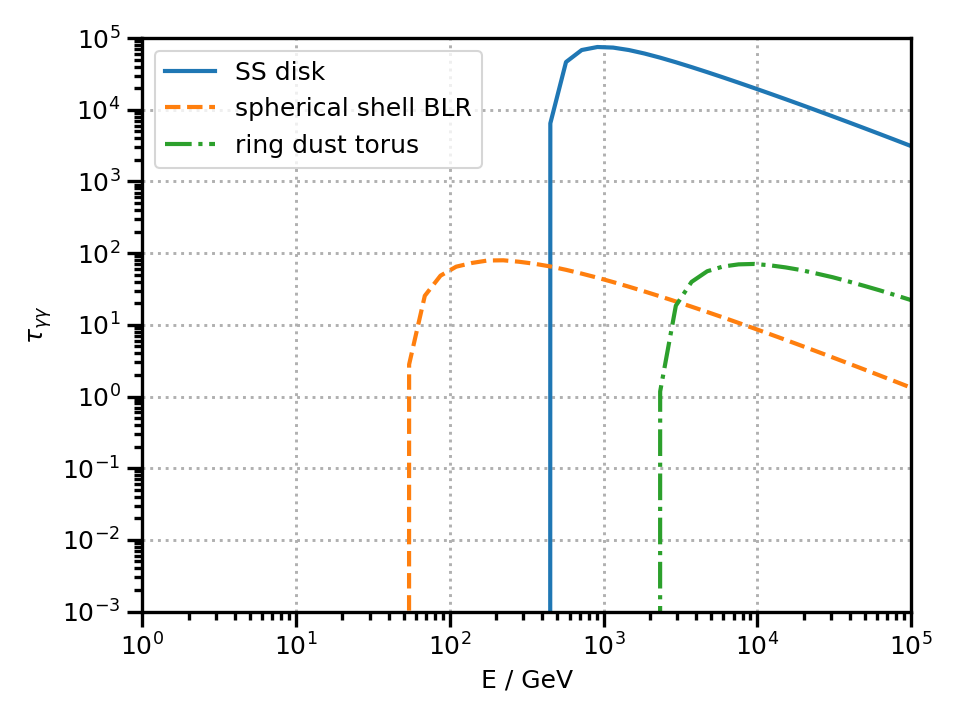
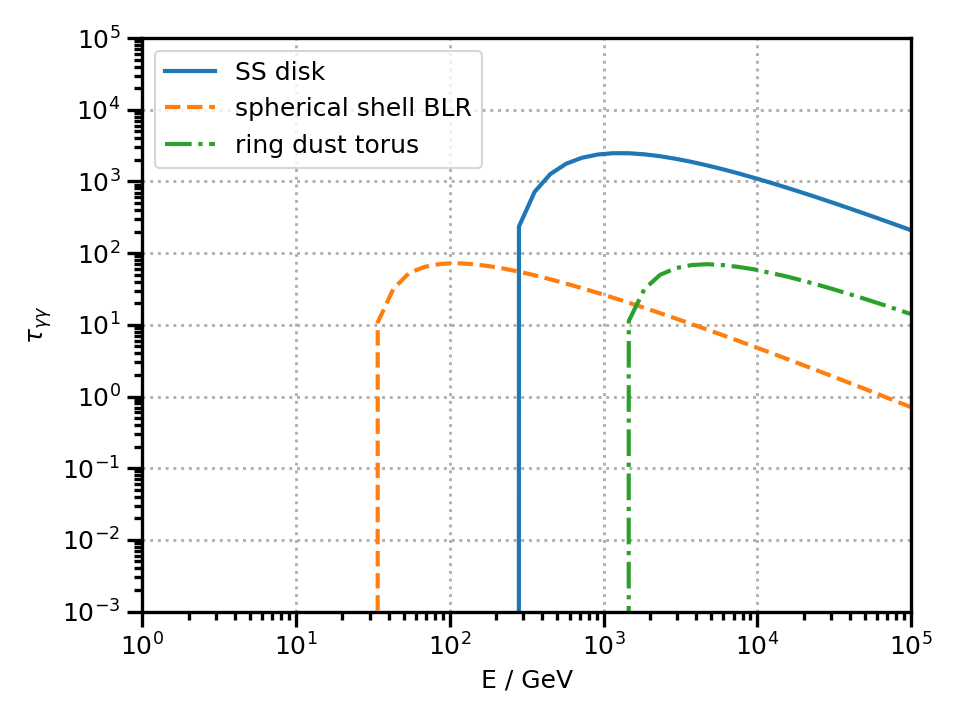
rewritten docs

diff --git a/agnpy/tests/test_compton.py b/agnpy/tests/test_compton.py
@@ -18,7 +18,9 @@ agnpy_dir = Path(__file__).parent.parent
 data_dir = agnpy_dir / "data"
 # where to save figures
 figures_dir = agnpy_dir.parent / "crosschecks/figures/compton"
-figures_dir.mkdir(parents=True, exist_ok=True)
+Path(figures_dir / "ssc").mkdir(parents=True, exist_ok=True)
+for subdir in ["disk", "blr", "dt"]:
+    Path(figures_dir / "ec" / subdir).mkdir(parents=True, exist_ok=True)
 
 # variables with _test are global and meant to be used in all tests
 pwl_spectrum_norm_test = 1e48 * u.Unit("erg")
@@ -97,7 +99,7 @@ class TestSynchrotronSelfCompton:
             "agnpy",
             "Figure 7.4, Dermer and Menon (2009)",
             "Synchrotron Self Compton, " + r"$\gamma_{max} = $" + gamma_max,
-            f"{figures_dir}/ssc_comparison_gamma_max_{gamma_max}_figure_7_4_dermer_menon_2009.png",
+            f"{figures_dir}/ssc/comparison_gamma_max_{gamma_max}_figure_7_4_dermer_menon_2009.png",
             "sed",
             y_range=[1e-13, 1e-9],
             comparison_range=nu_range.to_value("Hz"),
@@ -124,7 +126,7 @@ class TestSynchrotronSelfCompton:
             "trapezoidal log-log integration",
             "trapezoidal integration",
             "Synchrotron Self Compton",
-            f"{figures_dir}/ssc_comparison_integration_methods.png",
+            f"{figures_dir}/ssc/comparison_integration_methods.png",
             "sed",
             comparison_range=nu_range.to_value("Hz"),
         )
@@ -157,7 +159,7 @@ class TestExternalCompton:
             "agnpy",
             "Figure 8, Finke (2016)",
             f"External Compton on Shakura Sunyaev Disk, r = {r} cm",
-            f"{figures_dir}/ec_disk_comparison_r_{r}_cm_figure_8_finke_2016.png",
+            f"{figures_dir}/ec/disk/comparison_r_{r}_cm_figure_8_finke_2016.png",
             "sed",
             comparison_range=nu_range.to_value("Hz"),
         )
@@ -184,7 +186,7 @@ class TestExternalCompton:
             "trapezoidal log-log integration",
             "trapezoidal integration",
             "External Compton on Shakura Sunyaev Disk",
-            f"{figures_dir}/ec_disk_comparison_integration_methods.png",
+            f"{figures_dir}/ec/disk/comparison_integration_methods.png",
             "sed",
         )
         # requires that the SED points deviate less than 20%
@@ -212,7 +214,7 @@ class TestExternalCompton:
             "agnpy",
             "Figure 10, Finke (2016)",
             f"External Compton on Spherical Shell BLR, r = {r} cm",
-            f"{figures_dir}/ec_blr_comparison_r_{r}_cm_figure_10_finke_2016.png",
+            f"{figures_dir}/ec/blr/comparison_r_{r}_cm_figure_10_finke_2016.png",
             "sed",
             comparison_range=nu_range.to_value("Hz"),
         )
@@ -238,7 +240,7 @@ class TestExternalCompton:
             "trapezoidal log-log integration",
             "trapezoidal integration",
             "External Compton on Spherical Shell Broad Line Region",
-            f"{figures_dir}/ec_blr_comparison_integration_methods.png",
+            f"{figures_dir}/ec/blr/comparison_integration_methods.png",
             "sed",
         )
         # requires that the SED points deviate less than 30%
@@ -266,7 +268,7 @@ class TestExternalCompton:
             "agnpy",
             "Figure 11, Finke (2016)",
             f"External Compton on Ring Dust Torus, r = {r} cm",
-            f"{figures_dir}/ec_dt_r_{r}_cm_comparison_figure_11_finke_2016.png",
+            f"{figures_dir}/ec/dt/comparison_r_{r}_cm_figure_11_finke_2016.png",
             "sed",
             comparison_range=nu_range.to_value("Hz"),
         )
@@ -291,7 +293,7 @@ class TestExternalCompton:
             "trapezoidal log-log integration",
             "trapezoidal integration",
             "External Compton on Ring Dust Torus",
-            f"{figures_dir}/ec_dt_comparison_integration_methods.png",
+            f"{figures_dir}/ec/dt/comparison_integration_methods.png",
             "sed",
         )
         # requires that the SED points deviate less than 20%
@@ -322,7 +324,7 @@ class TestExternalCompton:
             "spherical shell BLR",
             "External Compton on Spherical Shell BLR, "
             + r"$r = 10^{22}\,{\rm cm} \gg R_{\rm line}$",
-            f"{figures_dir}/ec_blr_point_source_comparison.png",
+            f"{figures_dir}/ec/blr/comparison_point_source.png",
             "sed",
         )
         # requires a 20% deviation from the two SED points
@@ -349,7 +351,7 @@ class TestExternalCompton:
             "ring Dust Torus",
             "External Compton on Ring Dust Torus, "
             + r"$r = 10^{22}\,{\rm cm} \gg R_{\rm dt}$",
-            f"{figures_dir}/ec_dt_point_source_comparison.png",
+            f"{figures_dir}/ec/dt/comparison_point_source.png",
             "sed",
         )
         # requires a 20% deviation from the two SED points

diff --git a/agnpy/absorption/absorption.py b/agnpy/absorption/absorption.py
@@ -63,15 +63,7 @@ class Absorption:
         self.phi = np.linspace(0, 2 * np.pi, self.phi_size)
 
     def set_l(self, l_size=50):
-        """set an array of distances over which to integrate
-        integrate up to 100 kpc"""
-        max_l = 100 * u.kpc
-        self.l = (
-            np.logspace(
-                np.log10(self.r.to_value("cm")), np.log10(max_l.to_value("cm")), l_size
-            )
-            * u.cm
-        )
+        self.l_size = l_size
 
     @staticmethod
     def evaluate_tau_ps_behind_blob(nu, z, mu_s, epsilon_0, L_0, r):
@@ -177,7 +169,7 @@ class Absorption:
             R_tilde, phi, l_tilde, epsilon_1
         )
         _epsilon = SSDisk.evaluate_epsilon(L_disk, M_BH, eta, _R_tilde)
-        _phi_disk = 1 - (R_in_tilde / _R_tilde) ** (-1 / 2)
+        _phi_disk = 1 - (R_in_tilde / _R_tilde) ** (1 / 2)
         _mu = (1 + (_R_tilde ** 2 / _l_tilde ** 2)) ** (-1 / 2)
         _cos_psi = cos_psi(mu_s, _mu, _phi)
         s = _epsilon * _epsilon_1 * (1 - _cos_psi) / 2
@@ -210,6 +202,9 @@ class Absorption:
             self.target.R_in,
             self.target.R_out,
             self.r,
+            R_tilde_size=100,
+            l_tilde_size=self.l_size,
+            phi=self.phi,
         )
 
     @staticmethod
@@ -222,7 +217,7 @@ class Absorption:
         epsilon_line,
         R_line,
         r,
-        l_tilde_size=50,
+        l_size=50,
         mu=mu_to_integrate,
         phi=phi_to_integrate,
     ):
@@ -248,7 +243,7 @@ class Absorption:
             radius of the BLR spherical shell
         r : :class:`~astropy.units.Quantity`
             distance between the Broad Line Region and the blob
-        l_tilde_size : int
+        l_size : int
             size of the array of distances from the BH to integrate over
         mu, phi : :class:`~numpy.ndarray`
             arrays of cosine of zenith and azimuth angles to integrate over
@@ -261,7 +256,7 @@ class Absorption:
         # conversions
         epsilon_1 = nu_to_epsilon_prime(nu, z)
         # multidimensional integration
-        l = np.logspace(0, 5, l_tilde_size) * r
+        l = np.logspace(0, 5, l_size) * r
         _mu, _phi, _l, _epsilon_1 = axes_reshaper(mu, phi, l, epsilon_1)
         x = x_re_shell(_mu, R_line, _l)
         _mu_star = mu_star_shell(_mu, R_line, _l)
@@ -290,6 +285,9 @@ class Absorption:
             self.target.epsilon_line,
             self.target.R_line,
             self.r,
+            l_size=self.l_size,
+            mu=self.mu,
+            phi=self.phi,
         )
 
     @staticmethod
@@ -302,7 +300,7 @@ class Absorption:
         epsilon_dt,
         R_dt,
         r,
-        l_tilde_size=50,
+        l_size=50,
         phi=phi_to_integrate,
     ):
         r"""Evaluates the gamma-gamma absorption produced by a ring dust torus
@@ -326,12 +324,10 @@ class Absorption:
             radius of the ting-like torus
         r : :class:`~astropy.units.Quantity`
             distance between the dust torus and the blob
-        l_tilde_size : int
+        l_size : int
             size of the array of distances from the BH to integrate over
         phi : :class:`~numpy.ndarray`
             arrays of azimuth angles to integrate over
-
-        **Note** arguments after *args are keyword-only arguments
 
         Returns
         -------
@@ -341,7 +337,7 @@ class Absorption:
         # conversions
         epsilon_1 = nu_to_epsilon_prime(nu, z)
         # multidimensional integration
-        l = np.logspace(0, 5, l_tilde_size) * r
+        l = np.logspace(0, 5, l_size) * r
         _phi, _l, _epsilon_1 = axes_reshaper(phi, l, epsilon_1)
         x = x_re_ring(R_dt, _l)
         _mu = _l / x
@@ -365,6 +361,8 @@ class Absorption:
             self.target.epsilon_dt,
             self.target.R_dt,
             self.r,
+            l_size=self.l_size,
+            phi=self.phi,
         )
 
     def tau(self, nu):

diff --git a/agnpy/tests/test_absorption.py b/agnpy/tests/test_absorption.py
@@ -61,7 +61,7 @@ class TestAbsorption:
             f"Absorption Shakura Sunyaev Disk, r = {r} R(Ly alpha)",
             f"{figures_dir}/disk/tau_disk_comparison_r_{r}_R_Ly_alpha_figure_14_finke_2016.png",
             "tau",
-            y_range=[1e-5, 1e5]
+            y_range=[1e-10, 1e5],
         )
         assert True
 
@@ -96,7 +96,7 @@ class TestAbsorption:
             f"Absorption on Spherical Shell BLR, r = {r} R(Ly alpha)",
             f"{figures_dir}/blr/tau_blr_Ly_alpha_comprison_r_{r}_R_Ly_alpha_figure_14_finke_2016.png",
             "tau",
-            y_range=[1e-5, 1e5]
+            y_range=[1e-5, 1e5],
         )
         assert True
 
@@ -131,7 +131,7 @@ class TestAbsorption:
             f"Absorption on Dust Torus, r = {r} R(Ly alpha)",
             f"{figures_dir}/dt/tau_dt_comprison_r_{r}_R_Ly_alpha_figure_14_finke_2016.png",
             "tau",
-            y_range=[1e-5, 1e5]
+            y_range=[1e-5, 1e5],
         )
         assert True
 

diff --git a/check_absorption_disk.py b/check_absorption_disk.py
@@ -1,0 +1,39 @@
+# check absorption for disk
+import numpy as np
+import astropy.units as u
+import astropy.constants as const
+from agnpy.targets import SSDisk
+from agnpy.absorption import Absorption
+import matplotlib.pyplot as plt
+
+# disk parameters
+M_BH = 1.2 * 1e9 * const.M_sun.cgs
+L_disk = 2 * 1e46 * u.Unit("erg s-1")
+eta = 1 / 12
+R_in = 6
+R_out = 200
+disk = SSDisk(M_BH, L_disk, eta, R_in, R_out, R_g_units=True)
+
+# consider a fixed distance of the blob from the target fields
+z = 0.859
+R_Ly_alpha = 1.1e17 * u.cm
+r = 1e-1 * R_Ly_alpha
+
+absorption_disk = Absorption(disk, r=r, z=z)
+
+E = np.logspace(0, 5) * u.GeV
+nu = E.to("Hz", equivalencies=u.spectral())
+tau_disk = absorption_disk.tau(nu)
+
+import IPython
+
+IPython.embed()
+
+fig, ax = plt.subplots()
+ax.loglog(E, tau_disk, lw=2, ls="-", label="SS disk")
+ax.legend()
+ax.set_xlabel("E / GeV")
+ax.set_ylabel(r"$\tau_{\gamma \gamma}$")
+ax.set_xlim([1, 1e5])
+ax.set_ylim([1e-3, 1e5])
+plt.show()

diff --git a/docs/absorption.rst b/docs/absorption.rst
@@ -24,17 +24,6 @@ In the following example we compute the optical depth produced by the disk, the 
 	from agnpy.targets import SSDisk, SphericalShellBLR, RingDustTorus
 	from agnpy.absorption import Absorption
 
-	# define the blob
-	spectrum_norm = 1e47 * u.erg
-	parameters = {"p": 2.8, "gamma_min": 10, "gamma_max": 1e6}
-	spectrum_dict = {"type": "PowerLaw", "parameters": parameters}
-	R_b = 1e16 * u.cm
-	B = 0.56 * u.G
-	z = 0
-	delta_D = 40
-	Gamma = 40
-	blob = Blob(R_b, z, delta_D, Gamma, B, spectrum_norm, spectrum_dict)
-
 	# disk parameters
 	M_BH = 1.2 * 1e9 * const.M_sun.cgs
 	L_disk = 2 * 1e46 * u.Unit("erg s-1")
@@ -45,7 +34,7 @@ In the following example we compute the optical depth produced by the disk, the 
 
 	# blr definition
 	csi_line = 0.024
-	R_line = 1e17 * u.cm
+	R_line = 1.1e17 * u.cm
 	blr = SphericalShellBLR(L_disk, csi_line, "Lyalpha", R_line)
 
 	# dust torus definition
@@ -53,20 +42,22 @@ In the following example we compute the optical depth produced by the disk, the 
 	csi_dt = 0.1
 	dt = RingDustTorus(L_disk, csi_dt, T_dt)
 
-as for the :class:`~agnpy.compton.ExternalCompton` radiation, the absortpion can 
-be computed passing to the :class:`~agnpy.absorption.Absorption` class the 
-:class:`~agnpy.emission_regions.Blob` and :class:`~agnpy.targets.SSDisk` 
-(or any other target) instances. 
-Remember also to set the distance between the blob and the target photon field (:math:`r`)
+The :class:`~agnpy.absorption.Absorption` requires as input the type of target, :class:`~agnpy.targets`, 
+the distance between the blob and the target photon field (:math:`r`) and (optionally) the redshift of 
+the source to correct the observed energies and the cosine of the angle between the jet axis and the observer
+:math:`\mu_s`
 
 .. code-block:: python
 
-	# consider a fixed distance of the blob from the target fields 
+	# consider the 3C 454.3 example of Finke 2016
+	z = 0.859 
+	# consider a fixed distance of the blob from the target fields
 	r = 1.1e16 * u.cm
 
-	absorption_disk = Absorption(blob, disk, r=r)
-	absorption_blr = Absorption(blob, blr, r=r)
-	absorption_dt = Absorption(blob, dt, r=r)
+	# we assume mu_s=1
+	absorption_disk = Absorption(disk, r=r, z=z)
+	absorption_blr = Absorption(blr, r=r, z=z)
+	absorption_dt = Absorption(dt, r=r, z=z)
 
 	E = np.logspace(0, 5) * u.GeV
 	nu = E.to("Hz", equivalencies=u.spectral())
@@ -74,7 +65,6 @@ Remember also to set the distance between the blob and the target photon field (
 	tau_disk = absorption_disk.tau(nu)
 	tau_blr = absorption_blr.tau(nu)
 	tau_dt = absorption_dt.tau(nu)
-
 
 	# plot the absorption
 	import matplotlib.pyplot as plt
@@ -106,7 +96,6 @@ The absorption values are interpolated by `agnpy` and can be later evaluated for
 
 .. plot:: snippets/ebl_models.py
     :include-source:
-   
 
 
 API
